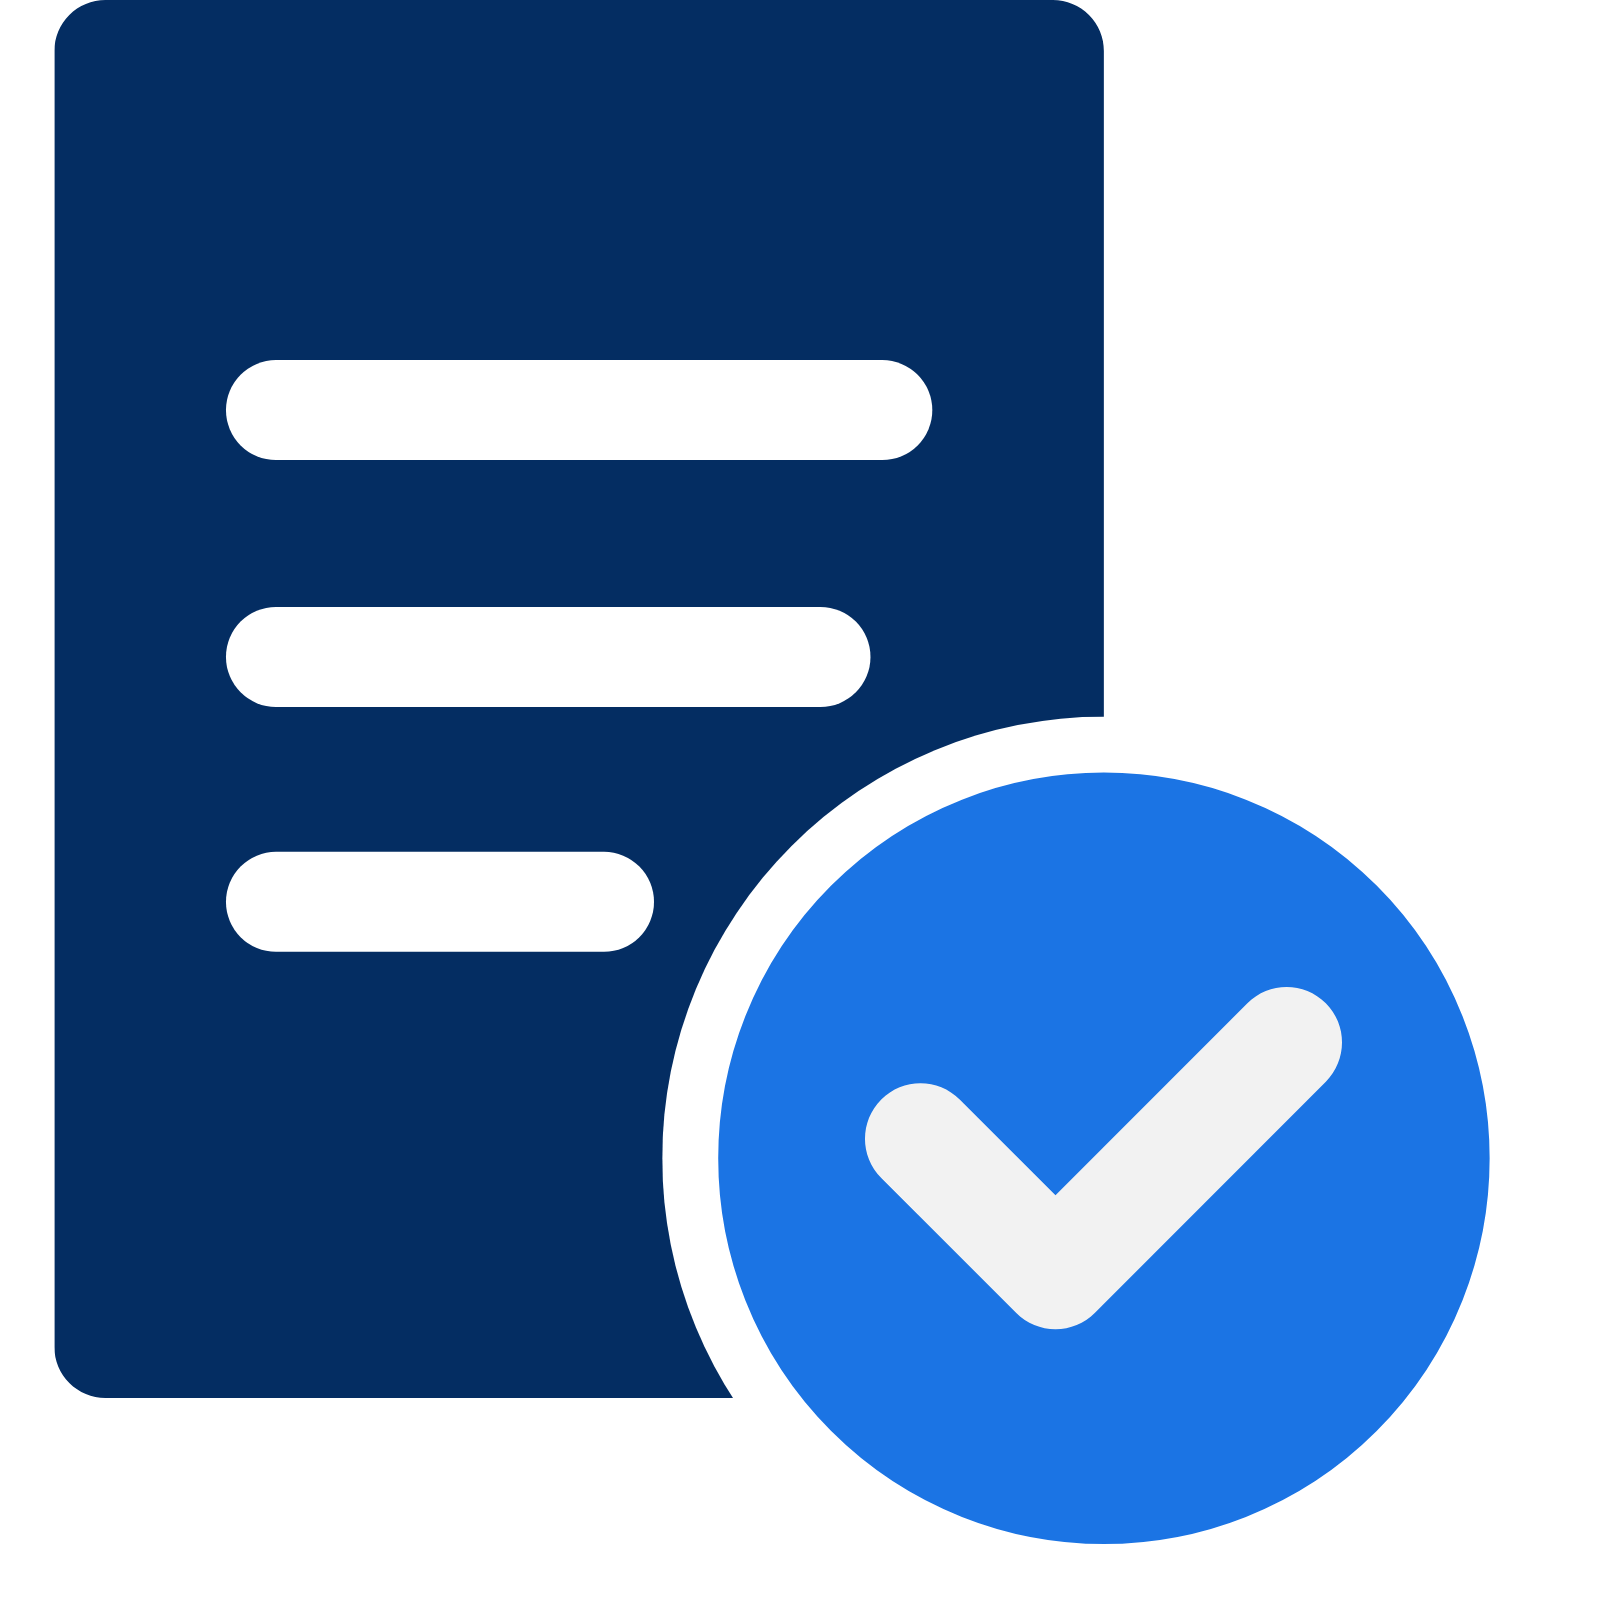
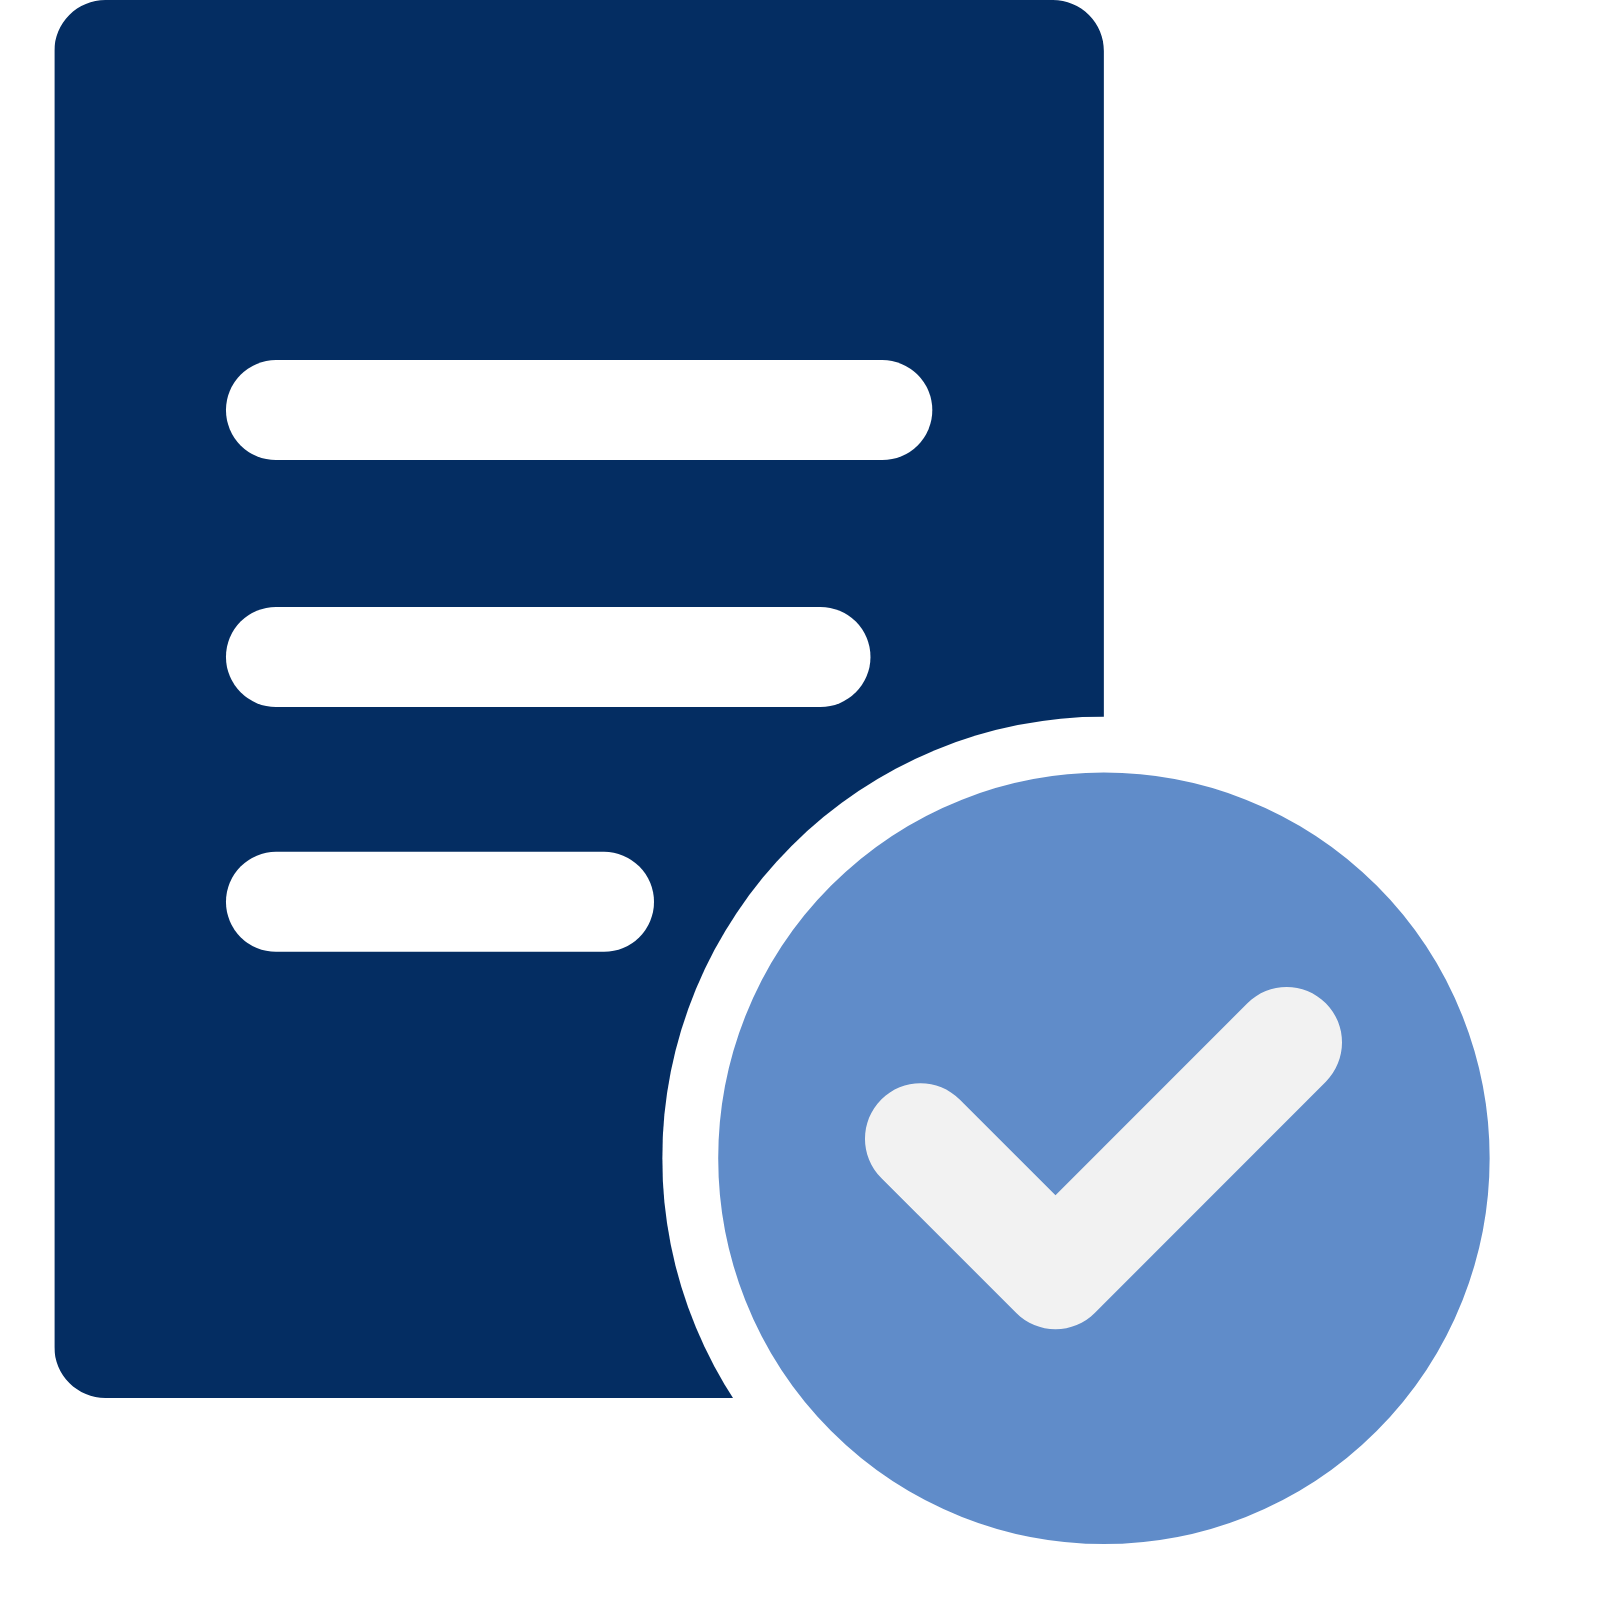
add: adicionar funcionalidades

Changed region(s): [[0.4375, 0.4688, 0.9375, 0.9688]]

diff --git a/assets/css/styles.css b/assets/css/styles.css
@@ -1,6 +1,9 @@
 * {
     margin: 0;
     padding: 0;
+    background-color: var(--background-color);
+    color: var(--dark-color);
+    font-family: system-ui, -apple-system, BlinkMacSystemFont, 'Segoe UI', Roboto, Oxygen, Ubuntu, Cantarell, 'Open Sans', 'Helvetica Neue', sans-serif;
 }
 
 .header {
@@ -13,8 +16,9 @@
 }
 
 .header h1 img {
-    height: 80px;
-    width: 236px;
+    margin: 20px 0 0 40px;
+    height: 70px;
+    width: 215px;
 }
 
 .main-section {
@@ -37,7 +41,6 @@
     width: 100vw;
     height: 30%;
     text-align: center;
-    font-family: system-ui, -apple-system, BlinkMacSystemFont, 'Segoe UI', Roboto, Oxygen, Ubuntu, Cantarell, 'Open Sans', 'Helvetica Neue', sans-serif;
 }
 
 .main-title h2 {
@@ -55,14 +58,211 @@
     align-items: center;
     flex-direction: row;
     height: 400px;
-    width: 900px;
+    width: 850px;
 }
 
 .card {
     height: 100%;
     width: 100%;
-    background: red;
+    background: var(--background-color);
     margin: 0 20px 0 20px;
-    border: black 2px solid;
+    border: var(--dark-color) 3px solid;
     border-radius: 20px;
+    display: flex;
+    flex-direction: column;
+    justify-content: center;
+    align-items: center;
+}
+
+.card-danfe-first-part h2 {
+    margin: 0 0 20px 0;
+}
+
+.card-danfe-first-part div {
+    margin: 0 0 20px 0;
+}
+
+.card-danfe-first-part {
+    display: flex;
+    flex-direction: column;
+    justify-content: center;
+    align-items: center;
+    height: 60%;
+    width: 100%;
+    background: none;
+}
+
+.card-danfe-first-part h2 {
+    font-size: 35px;
+}
+
+
+.input-card {
+    width: 100%;
+    display: flex;
+    justify-content: center;
+}
+
+.input-card input{
+    width: 82%;
+    height: 35px;
+    border-radius: 10px;
+    border: var(--dark-color) 3px solid;
+    background-color: var(--white-color);
+    padding: 0 0 0 10px;
+}
+
+.btn-buscar-danfe-xml {
+    width: 100%;
+    display: flex;
+    justify-content: center;
+    align-items: center;
+}
+
+.btn-buscar-danfe-xml a {
+    width: 100%;
+    display: flex;
+    justify-content: center;
+    align-items: center;
+    text-decoration: none;
+}
+
+.btn-buscar-danfe-xml button {
+    display: flex;
+    justify-content: center;
+    align-items: center;
+    width: 84%;
+    height: 40px;
+    border-radius: 10px;
+    border: var(--dark-color) 3px solid;
+    background-color: var(--blue-color);
+    color: var(--background-color);
+    font-size: 18px;
+
+}
+
+.card-danfe-second-part {
+    display: flex;
+    justify-content: center;
+    align-items: center;
+    width: 100%;
+    height: 27%;
+    border-top: var(--dark-color) 3px solid;
+}
+
+.img-card-danfe {
+    width: 40%;
+    display: flex;
+    align-items: center;
+    justify-content: center;
+    margin-top: 25px;
+}
+
+.card-danfe-second-part div img {
+    height: 100px;
+    width: 100px;
+}
+
+.text2-card-danfe {
+    width: 60%;
+    display: flex;
+    flex-direction: column;
+    justify-content: center;
+}
+
+.text2-card-danfe h2 {
+    font-size: 25px;
+    margin-top: 25px;
+}
+
+.btn-selecionar-arquivo {
+    width: 100%;
+    display: flex;
+    justify-content: center;
+}
+
+.btn-selecionar-arquivo a {
+    width: 100%;
+    display: flex;
+    text-decoration: none;
+}
+
+.btn-selecionar-arquivo button {
+    display: flex;
+    justify-content: center;
+    align-items: center;
+    width: 84%;
+    height: 35px;
+    border-radius: 10px;
+    border: var(--dark-color) 3px solid;
+    background-color: var(--background-color);
+    color: var(--black-color);
+    font-size: 18px;
+
+}
+
+.card-cnpj-first-part h2 {
+    margin: 0 0 20px 0;
+}
+
+.card-cnpj-first-part div {
+    margin: 0 0 20px 0;
+}
+
+.card-cnpj-first-part {
+    display: flex;
+    flex-direction: column;
+    justify-content: center;
+    align-items: center;
+    height: 60%;
+    width: 100%;
+    background: none;
+}
+
+.card-cnpj-first-part h2 {
+    font-size: 35px;
+}
+
+
+.input-card {
+    width: 100%;
+    display: flex;
+    justify-content: center;
+}
+
+.input-card input{
+    width: 82%;
+    height: 35px;
+    border-radius: 10px;
+    border: var(--dark-color) 3px solid;
+    background-color: var(--white-color);
+}
+
+.btn-consultar-cnpj {
+    width: 100%;
+    display: flex;
+    justify-content: center;
+    align-items: center;
+}
+
+.btn-consultar-cnpj a {
+    width: 100%;
+    display: flex;
+    justify-content: center;
+    align-items: center;
+    text-decoration: none;
+}
+
+.btn-consultar-cnpj button {
+    display: flex;
+    justify-content: center;
+    align-items: center;
+    width: 84%;
+    height: 40px;
+    border-radius: 10px;
+    border: var(--dark-color) 3px solid;
+    background-color: var(--blue-color);
+    color: var(--background-color);
+    font-size: 18px;
+
 }

diff --git a/index.html b/index.html
@@ -7,6 +7,7 @@
 
     <link rel="icon" href="assets/img/Ícone Consulta Legal.png" sizes="1920x1080" type="image/x-icon">
     <link rel="stylesheet" href="assets/css/styles.css">
+    <link rel="stylesheet" href="assets/css/variables.css">
 </head>
 <body>
     <header class="header">
@@ -26,11 +27,34 @@
 
         <section class="card-section">
             <div class="card" id="card-danfe">
-    
+                <div class="card-danfe-first-part">
+                   <h2>Consulta DANFe</h2>
+
+                   <div class="input-card"><input type="text" name="codigo de acesso" placeholder="Código de acesso:"></div>
+
+                   <h3 class="btn-buscar-danfe-xml"><a href="#" download><button>Buscar DANFe / XML</button></a></h3>
+                </div>
+                
+                <div class="card-danfe-second-part">
+                    <div class="img-card-danfe">
+                        <img src="assets/img/DANFe.png" alt="Ícone DANFe">
+                    </div>
+
+                    <div class="text2-card-danfe">
+                        <h2>Gerar DANFe</h2>
+                        <h3 class="btn-selecionar-arquivo"><a href="#" download><button>Selecionar arquivo</button></a></h3>
+                    </div>
+                </div>
             </div>
     
             <div class="card" id="card-cnpj">
-    
+                <div class="card-cnpj-first-part">
+                    <h2>Consulta CNPJ</h2>
+
+                    <div class="input-card"><input type="text" name="Consulta CNPJ" placeholder="Digite o CNPJ:"></div>
+ 
+                    <h2 class="btn-consultar-cnpj"><a href="#" download><button>Consultar</button></a></h2>
+                </div>
             </div>
         </section>
     </section>

diff --git a/assets/css/variables.css b/assets/css/variables.css
@@ -1,0 +1,6 @@
+:root {
+    --white-color: #ffffff;
+    --background-color: #f8f7f4;
+    --dark-color: #141c1f;
+    --blue-color: #5e8bc9;
+}
